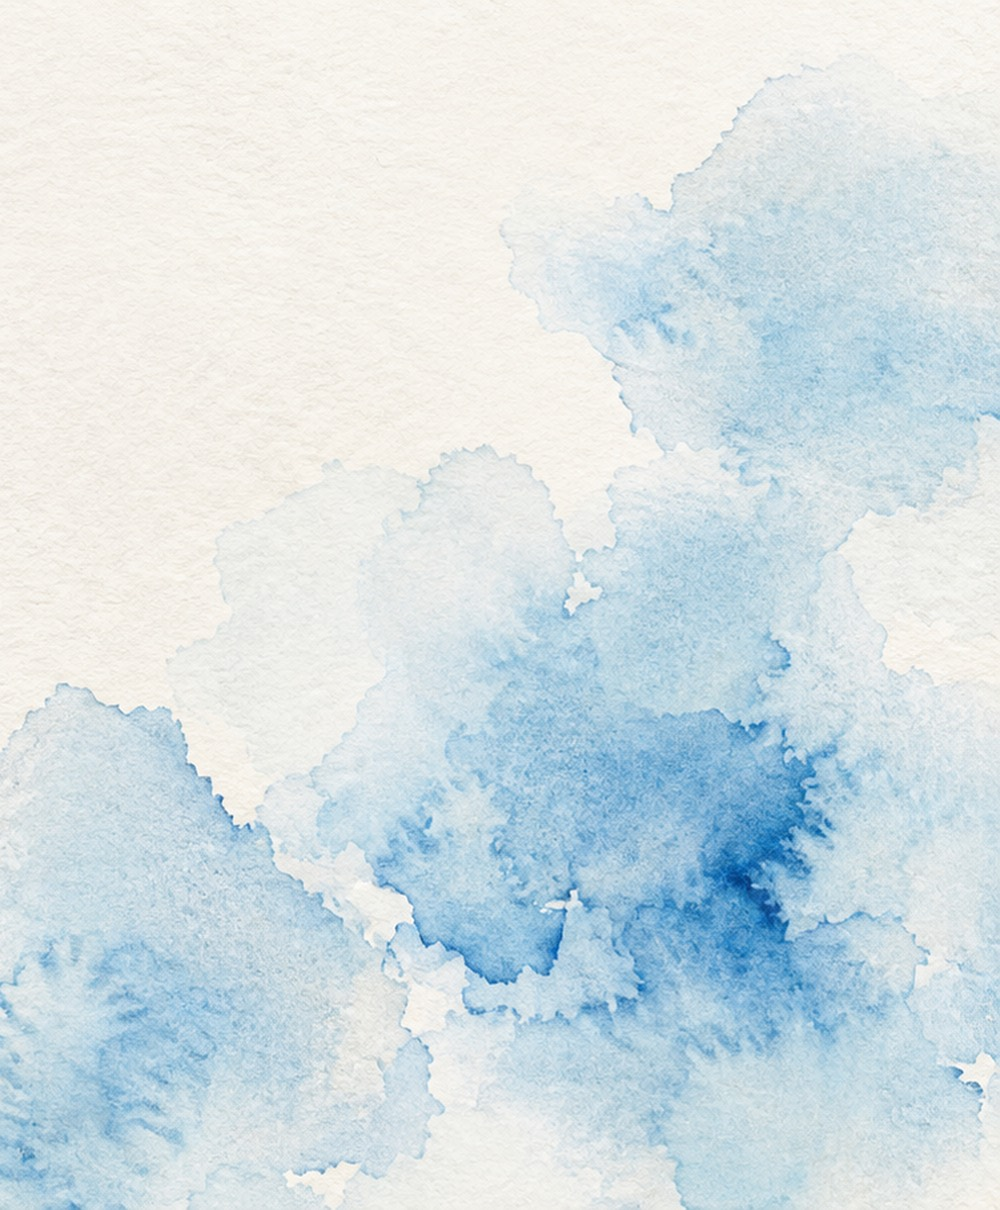
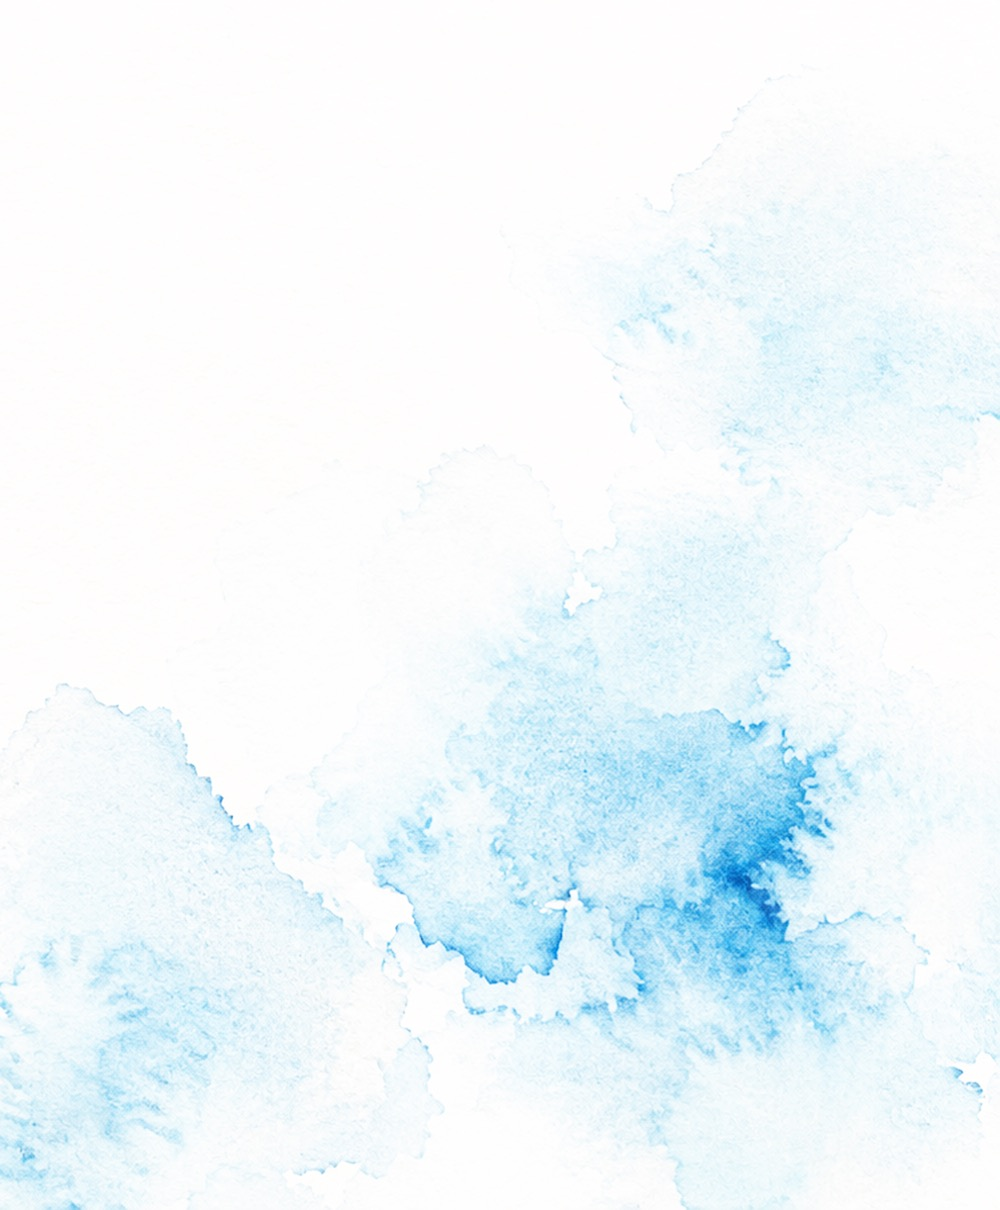
fix(brand): softer wash, and public/ cleared of everything unused
The scan came in as a photograph rather than a wash: `cover` cropped into the
densest part and filled the corner with flat pigment, and the paper texture in
the scan multiplied over the page as a grey cast. Whites are clipped in the
asset now, so multiply leaves pigment and nothing else, and it is set with
`contain` at the size the old one had - the whole sheet, edges and bleed and
granulation, gathered in the corner rather than pressed into it.

public/ holds only what is referenced:
- brand/cover and brand/profile, both the old dark-and-gold identity, gone
- favicon-16.png and favicon-32.png, superseded duplicates, gone
- .DS_Store untracked and ignored

_redirects stays: Netlify reads it by convention, and it is the SPA rewrite.

Claude-Session: https://claude.ai/code/session_018kg2p2FhM9jZtWJRWV9aJ3

diff --git a/src/styles.css b/src/styles.css
@@ -4291,12 +4291,15 @@ input, textarea, select { font-family: inherit; }
    texture in the scan lands on the paper colour of the page.
    Masked in from the top and left so the wash arrives out of nothing. */
 :root.paper .page-wash::after {
-  content: ""; position: absolute; right: -6%; bottom: -8%;
-  width: 62%; height: 100%;
-  background: url('/wash.jpg') right bottom / cover no-repeat;
+  content: ""; position: absolute; right: -6%; bottom: -7%;
+  width: 55%; height: 92%;
+  /* `contain`, not `cover`: cover crops into the densest part of the sheet and
+     fills the corner with flat pigment, which is what stopped reading as
+     watercolour. The whole wash shows, edges and all. */
+  background: url('/wash.jpg') right bottom / contain no-repeat;
   mix-blend-mode: multiply;
-  opacity: 0.96;
-  filter: saturate(1.3) hue-rotate(-8deg);
+  opacity: 0.92;
+  filter: saturate(1.16);
   -webkit-mask-image:
     linear-gradient(to right, transparent 0%, rgba(0, 0, 0, 0.26) 16%, #000 46%),
     linear-gradient(to bottom, transparent 0%, rgba(0, 0, 0, 0.34) 12%, #000 34%);
@@ -4319,8 +4322,8 @@ input, textarea, select { font-family: inherit; }
   /* Held lower and further out on a phone, and eased back: a narrow column puts
      body copy right over the deepest pooling, where the scan is at its darkest. */
   :root.paper .page-wash::after {
-    width: 124%; right: -40%; bottom: -10%; height: 66%;
-    opacity: 0.8;
+    width: 116%; right: -28%; bottom: -5%; height: 52%;
+    opacity: 0.86;
   }
 }
 @media (prefers-reduced-motion: reduce) {
